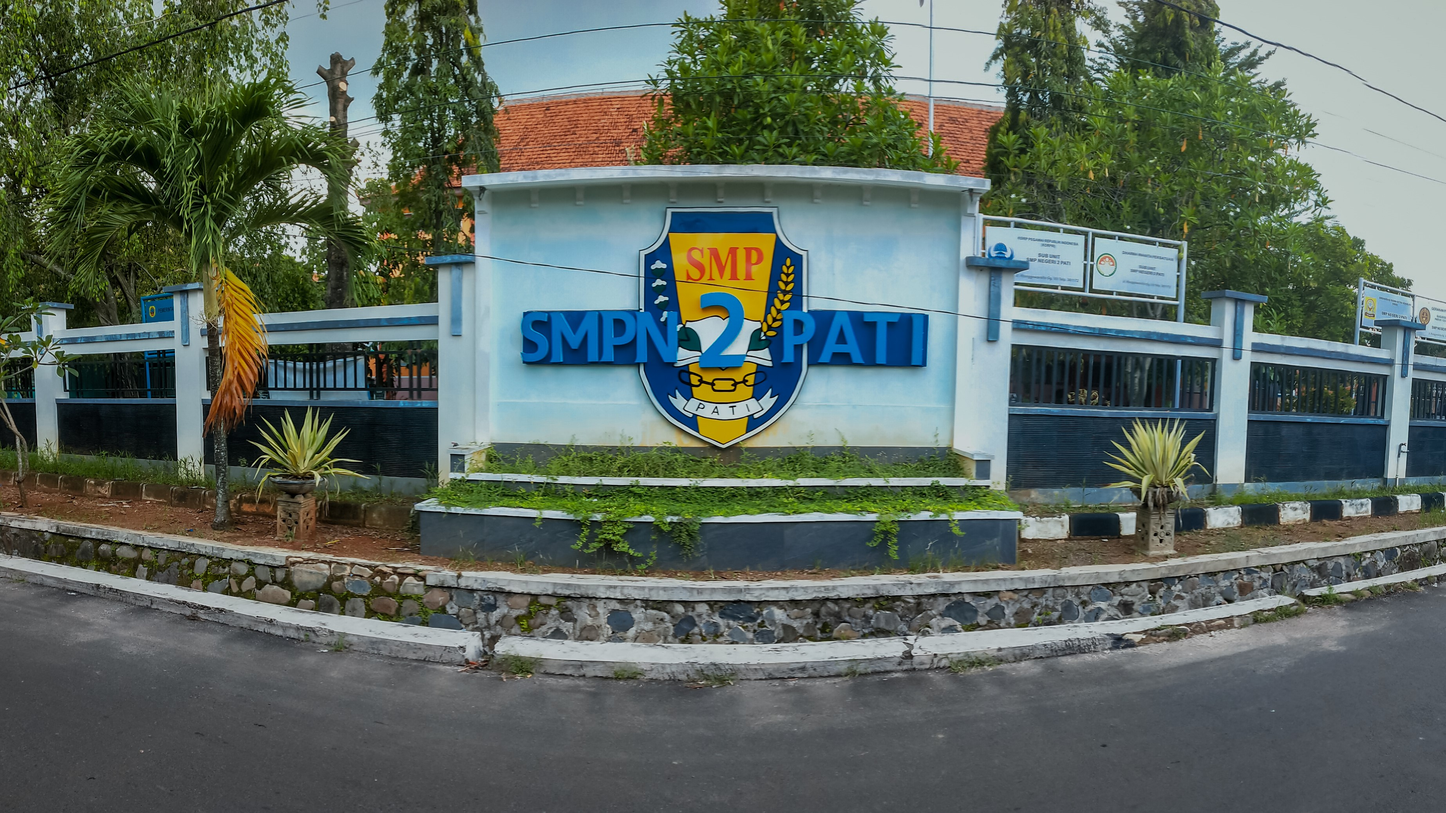
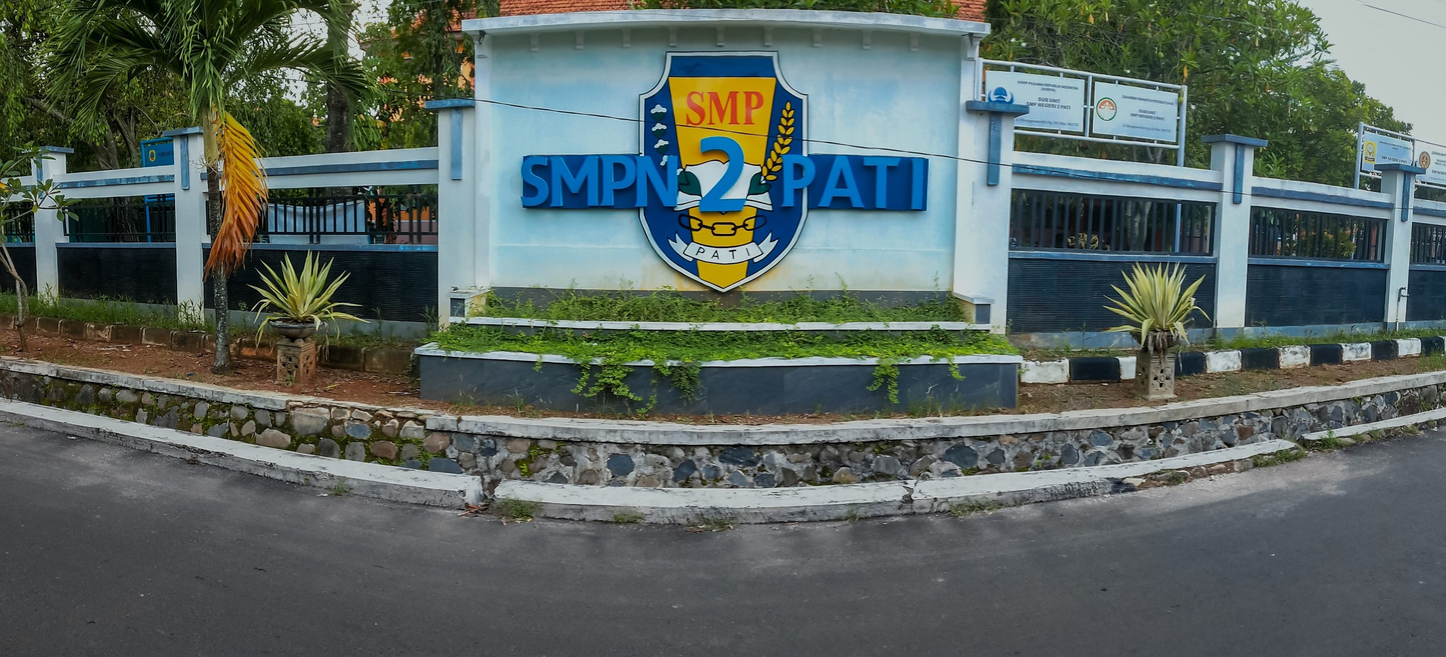
Update

diff --git a/assets/css/style.css b/assets/css/style.css
@@ -219,16 +219,15 @@ a:hover {
 header .bg-header {
     width: 100%;
     height: 450px;
-    background-position: 0 -200px;
+    background-position: center;
     background-size: cover;
     background-attachment: fixed;
     background-repeat: no-repeat;
     position: relative;
     text-shadow: 2px 2px 5px #000;
-    /* background-position: center; */
-    /* background-position: bottom; */
-    background-size: cover;
-    background-attachment: fixed;
+    display: flex;
+    align-items: center;
+    justify-content: center;
 }
 
 header .bg-header:after {
@@ -787,15 +786,14 @@ footer .sosmed li a:hover {
 
 
 /* CSS PAGE SAMBUTAN */
-header .sambutan-title {
-    padding-top: 80px;
+header .sambutan-title, header .visimisi-title, header .galeri-title, header .berita-title, header .info-title, header .agenda-title, header .ekstra-title, header .prestasi-title, header .sarpras-title, header .kontak-title {
     text-align: center;
 }
 
-header .sambutan-title h2 {
+header .sambutan-title h2, header .visimisi-title h2, header .galeri-title h2, header .berita-title h2, header .info-title h2, header .agenda-title h2, header .ekstra-title h2, header .prestasi-title h2, header .sarpras-title h2, header .kontak-title h2 {
     position: relative;
     display: inline-block;
-    margin-top: 130px;
+    margin-top: 50px;
     font-size: 30px;
     text-transform: uppercase;
     color: #fff;
@@ -848,7 +846,7 @@ header .sambutan-title h2:after {
 
 
 /* CSS PAGE VISI MISI */
-header .visimisi-title {
+/* header .visimisi-title {
     padding-top: 80px;
     text-align: center;
 }
@@ -862,7 +860,7 @@ header .visimisi-title h2 {
     color: #fff;
     font-weight: bold;
     letter-spacing: 3px;
-}
+} */
 
 header .visimisi-title h2:after {
     position: absolute;
@@ -899,7 +897,7 @@ header .visimisi-title h2:after {
 
 
 /* CSS PAGE GALERI */
-header .galeri-title {
+/* header .galeri-title {
     padding-top: 80px;
     text-align: center;
 }
@@ -913,7 +911,7 @@ header .galeri-title h2 {
     color: #fff;
     font-weight: bold;
     letter-spacing: 3px;
-}
+} */
 
 header .galeri-title h2:after {
     position: absolute;
@@ -995,96 +993,6 @@ header .galeri-title h2:after {
 
 
 
-/* CSS PAGE PETA LOKASI */
-/* header .lokasi-title {
-    padding-top: 80px;
-    text-align: center;
-}
-
-header .lokasi-title h2 {
-    position: relative;
-    display: inline-block;
-    margin-top: 130px;
-    font-size: 30px;
-    text-transform: uppercase;
-    color: #fff;
-    font-weight: bold;
-    letter-spacing: 3px;
-}
-
-header .lokasi-title h2:after {
-    position: absolute;
-    content: "";
-    width: 190px;
-    height: 5px;
-    background-color: #D6261A;
-    bottom: -20px;
-    left: 50%;
-    transform: translate(-50%);
-}
-
-#lokasi {
-    margin-top: 50px;
-}
-
-#lokasi i {
-    font-size: 50px;
-    color: #0a0092;
-}
-
-#lokasi h3 {
-    margin-left: 20px;
-    margin-bottom: 30px;
-    font-weight: bold;
-}
-
-#lokasi .lokasi-alamat {
-    width: 90%;
-    margin: auto;
-}
-
-#lokasi .lokasi-alamat h4 {
-    margin-left: 70px;
-    font-size: 18px;
-    line-height: 30px;
-    letter-spacing: 1px;
-}
-
-#lokasi .card {
-    width: 98%;
-    height: 400px;
-    border-radius: 5px;
-    position: relative;
-    overflow: hidden;
-    box-shadow: 2px 2px 2px rgba(103, 103, 103, 0.8);
-    padding: 20px;
-    margin: auto;
-}
-
-#lokasi img {
-    position: absolute;
-    inset: 0;
-    width: 100%;
-    height: 100%;
-    object-fit: cover;
-    opacity: 0.9;
-    transition: transform .5s;
-}
-
-#lokasi .card:hover img {
-    transform: scale(1.1);
-    opacity: 1;
-}
-
-.lokasi-item {
-    width: 95%;
-    margin: auto;
-    margin-top: 100px;
-} */
-/* END CSS PAGE LOKASI */
-
-
-
 /* CSS SECTION SEARCHBOX DAN KATEGORI BERITA */
 .searchbox {
     background-color: #FBF9FF;
@@ -1158,7 +1066,7 @@ header .lokasi-title h2:after {
 
 
 /* CSS PAGE BERITA */
-header .berita-title {
+/* header .berita-title {
     padding-top: 80px;
     text-align: center;
 }
@@ -1172,7 +1080,7 @@ header .berita-title h2 {
     color: #fff;
     font-weight: bold;
     letter-spacing: 3px;
-}
+} */
 
 header .berita-title h2:after {
     position: absolute;
@@ -1275,7 +1183,7 @@ header .berita-title h2:after {
 
 
 /* CSS PAGE INFO */
-header .info-title {
+/* header .info-title {
     padding-top: 80px;
     text-align: center;
 }
@@ -1289,7 +1197,7 @@ header .info-title h2 {
     color: #fff;
     font-weight: bold;
     letter-spacing: 3px;
-}
+} */
 
 header .info-title h2:after {
     position: absolute;
@@ -1398,7 +1306,7 @@ header .info-title h2:after {
 
 
 /* CSS PAGE AGENDA */
-header .agenda-title {
+/* header .agenda-title {
     padding-top: 80px;
     text-align: center;
 }
@@ -1412,7 +1320,7 @@ header .agenda-title h2 {
     color: #fff;
     font-weight: bold;
     letter-spacing: 3px;
-}
+} */
 
 header .agenda-title h2:after {
     position: absolute;
@@ -1515,7 +1423,7 @@ header .agenda-title h2:after {
 
 
 /* CSS PAGE EKSTRAKULIKULER */
-header .ekstra-title {
+/* header .ekstra-title {
     padding-top: 80px;
     text-align: center;
 }
@@ -1529,12 +1437,12 @@ header .ekstra-title h2 {
     color: #fff;
     font-weight: bold;
     letter-spacing: 3px;
-}
+} */
 
 header .ekstra-title h2:after {
     position: absolute;
     content: "";
-    width: 250px;
+    width: 290px;
     height: 5px;
     background-color: #D6261A;
     bottom: -20px;
@@ -1614,7 +1522,7 @@ header .ekstra-title h2:after {
 
 
 /* CSS PAGE PRESTASI */
-header .prestasi-title {
+/* header .prestasi-title {
     padding-top: 80px;
     text-align: center;
 }
@@ -1628,7 +1536,7 @@ header .prestasi-title h2 {
     color: #fff;
     font-weight: bold;
     letter-spacing: 3px;
-}
+} */
 
 header .prestasi-title h2:after {
     position: absolute;
@@ -1700,7 +1608,7 @@ header .prestasi-title h2:after {
 
 
 /* CSS PAGE SARANA PRASARANA */
-header .sarpras-title {
+/* header .sarpras-title {
     padding-top: 80px;
     text-align: center;
 }
@@ -1714,7 +1622,7 @@ header .sarpras-title h2 {
     color: #fff;
     font-weight: bold;
     letter-spacing: 3px;
-}
+} */
 
 header .sarpras-title h2:after {
     position: absolute;
@@ -1792,7 +1700,7 @@ header .sarpras-title h2:after {
 
 
 /* CSS PAGE KONTAK */
-header .kontak-title {
+/* header .kontak-title {
     padding-top: 80px;
     text-align: center;
 }
@@ -1806,7 +1714,7 @@ header .kontak-title h2 {
     color: #fff;
     font-weight: bold;
     letter-spacing: 3px;
-}
+} */
 
 header .kontak-title h2:after {
     position: absolute;
@@ -2183,14 +2091,7 @@ header .kontak-title h2:after {
 
     header .bg-header {
         height: 300px;
-        background-position: -445px -100px;
-        /* background-size: cover;
-        background-attachment: fixed;
-        background-repeat: no-repeat;
-        position: relative;
-        text-shadow: 2px 2px 5px #000;
-        background-size: cover;
-        background-attachment: fixed; */
+        /* background-position: center; */
     }
 
     /* header .bg-header:after {

diff --git a/script/admin/admin-info.html b/script/admin/admin-info.html
@@ -281,7 +281,7 @@
 
 	<script src="../../assets/js/bootstrap.js"></script>
     <script src="../../assets/js/admin/main-admin.js"></script>
-    <script type="module" src="../../assets/js/admin/admin-info.js"></script>
+    <!-- <script type="module" src="../../assets/js/admin/admin-info.js"></script> -->
 	<script type="text/javascript" src="../../assets/js/jquery-3.6.3.min.js"></script>
     <script src="https://cdn.datatables.net/1.13.4/js/jquery.dataTables.min.js"></script>
     <script src="https://cdn.jsdelivr.net/npm/sweetalert2@11"></script>
